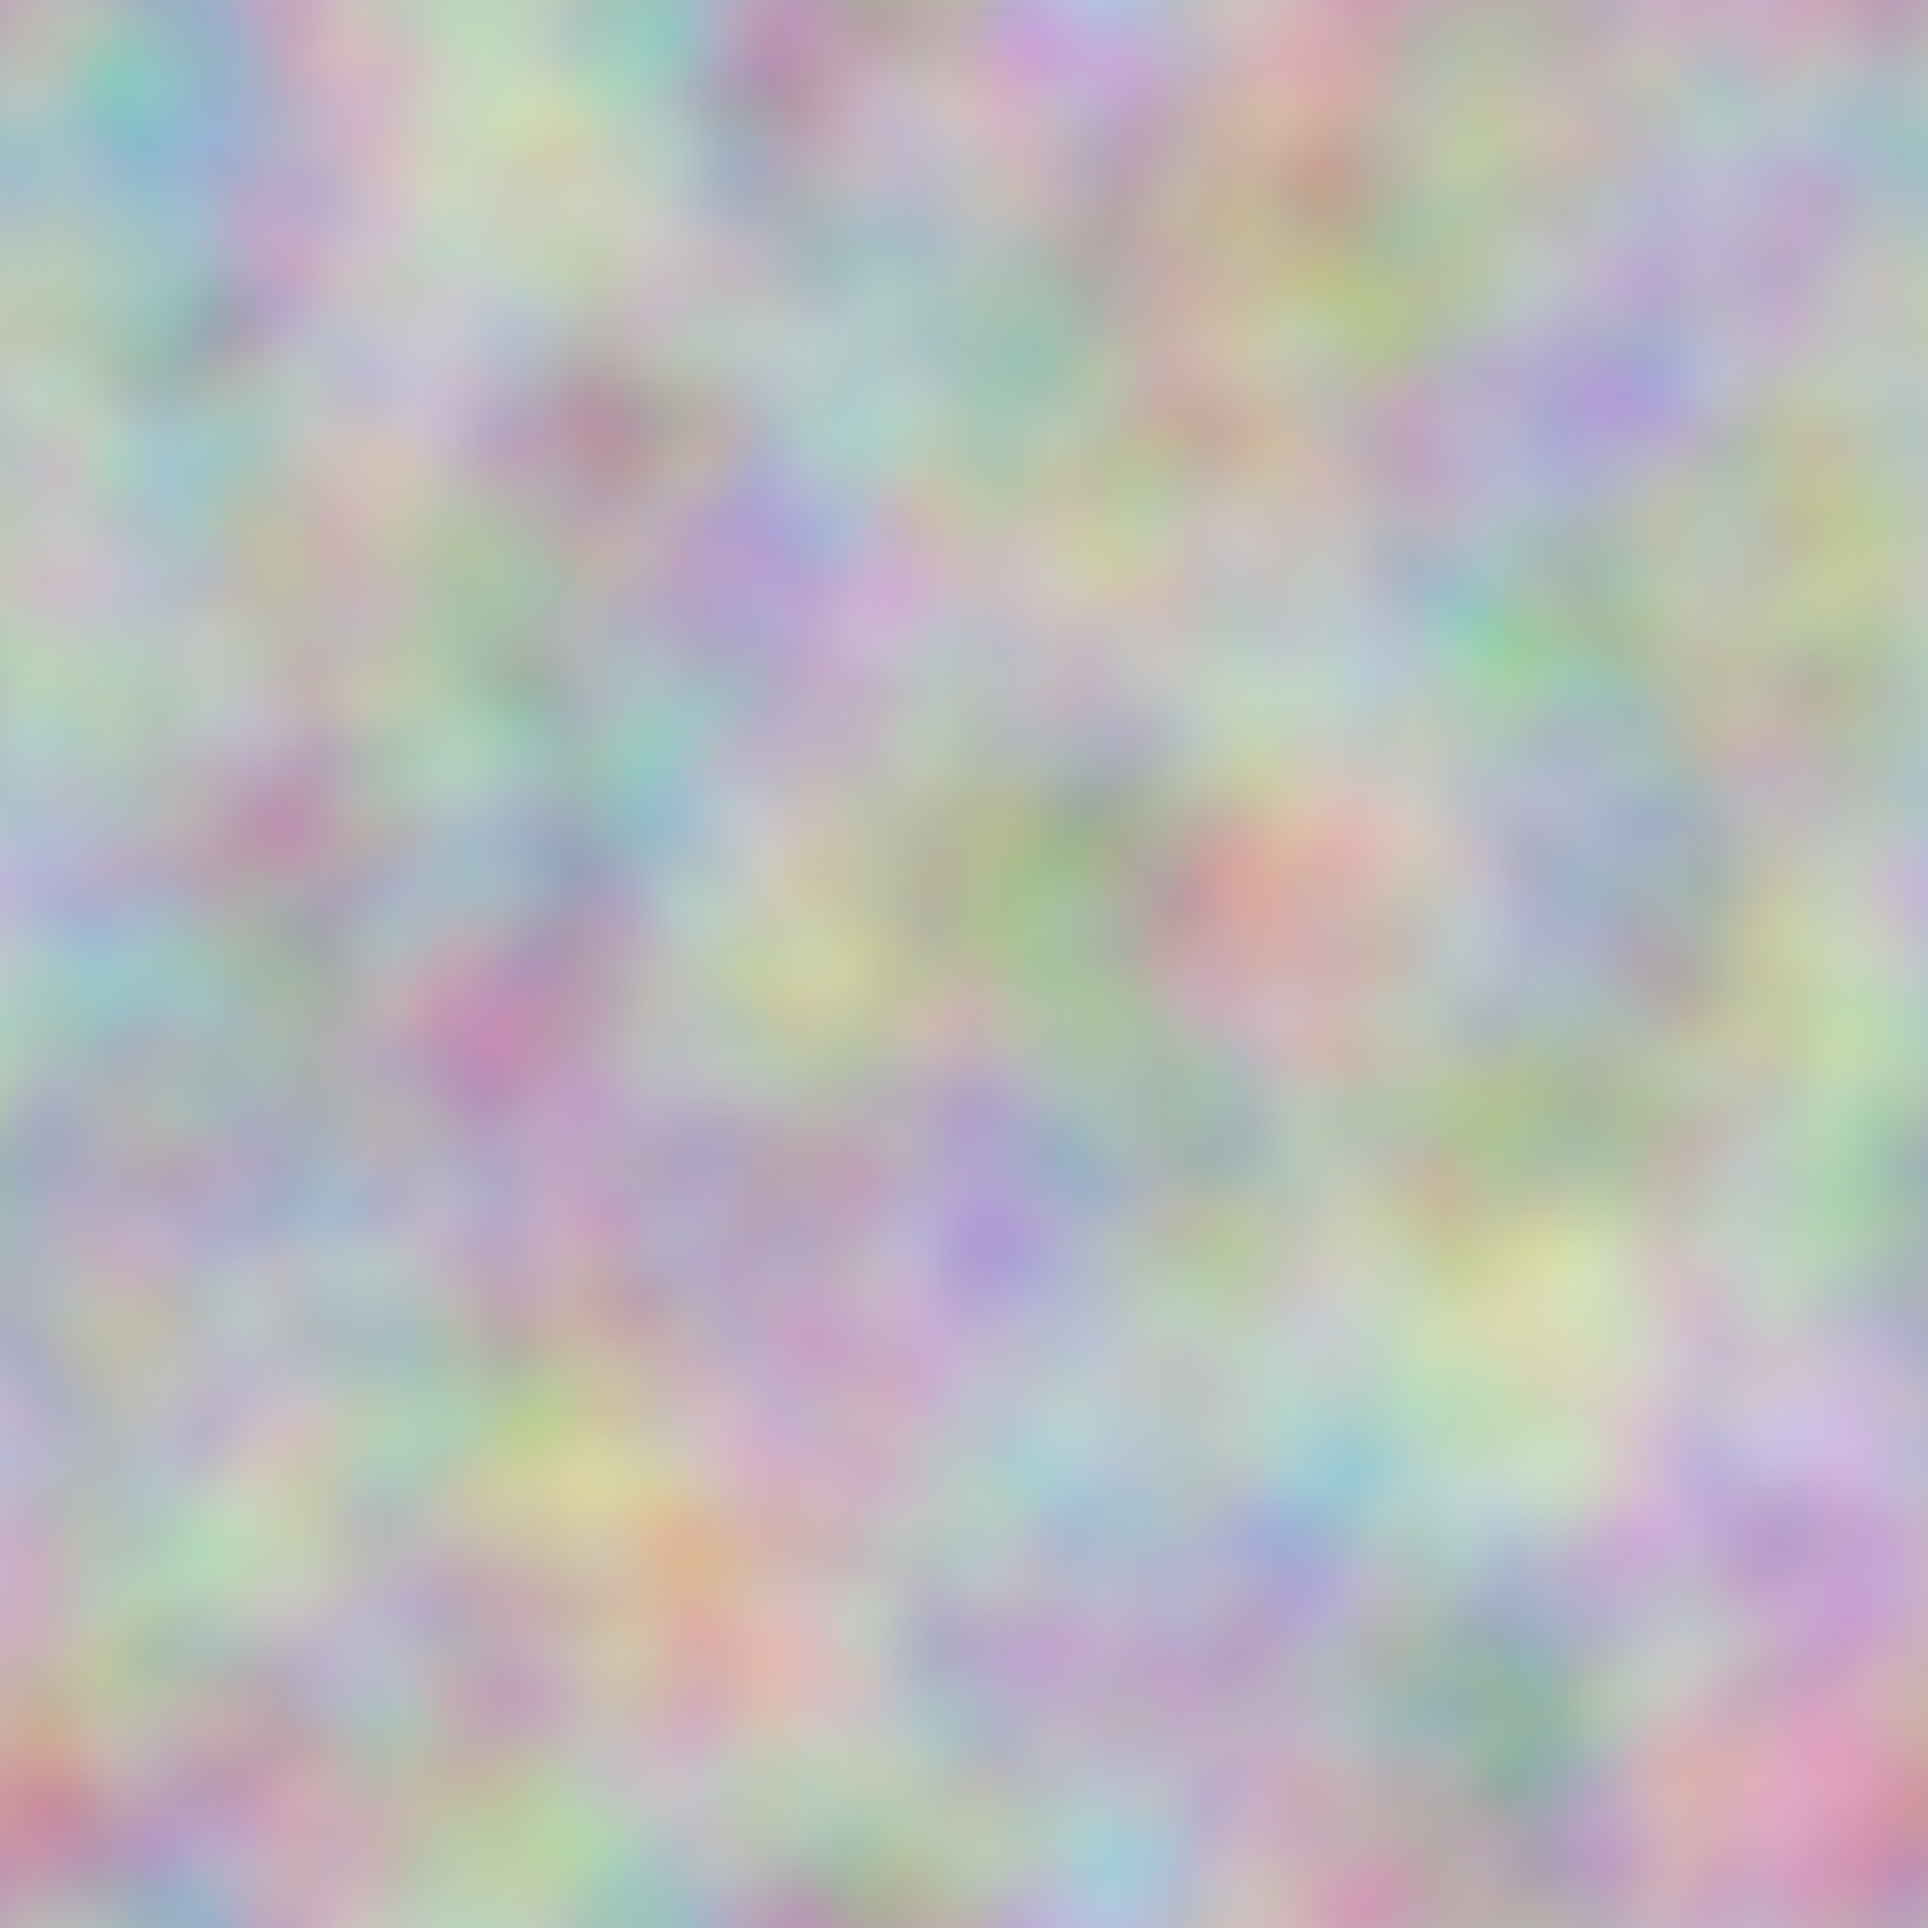
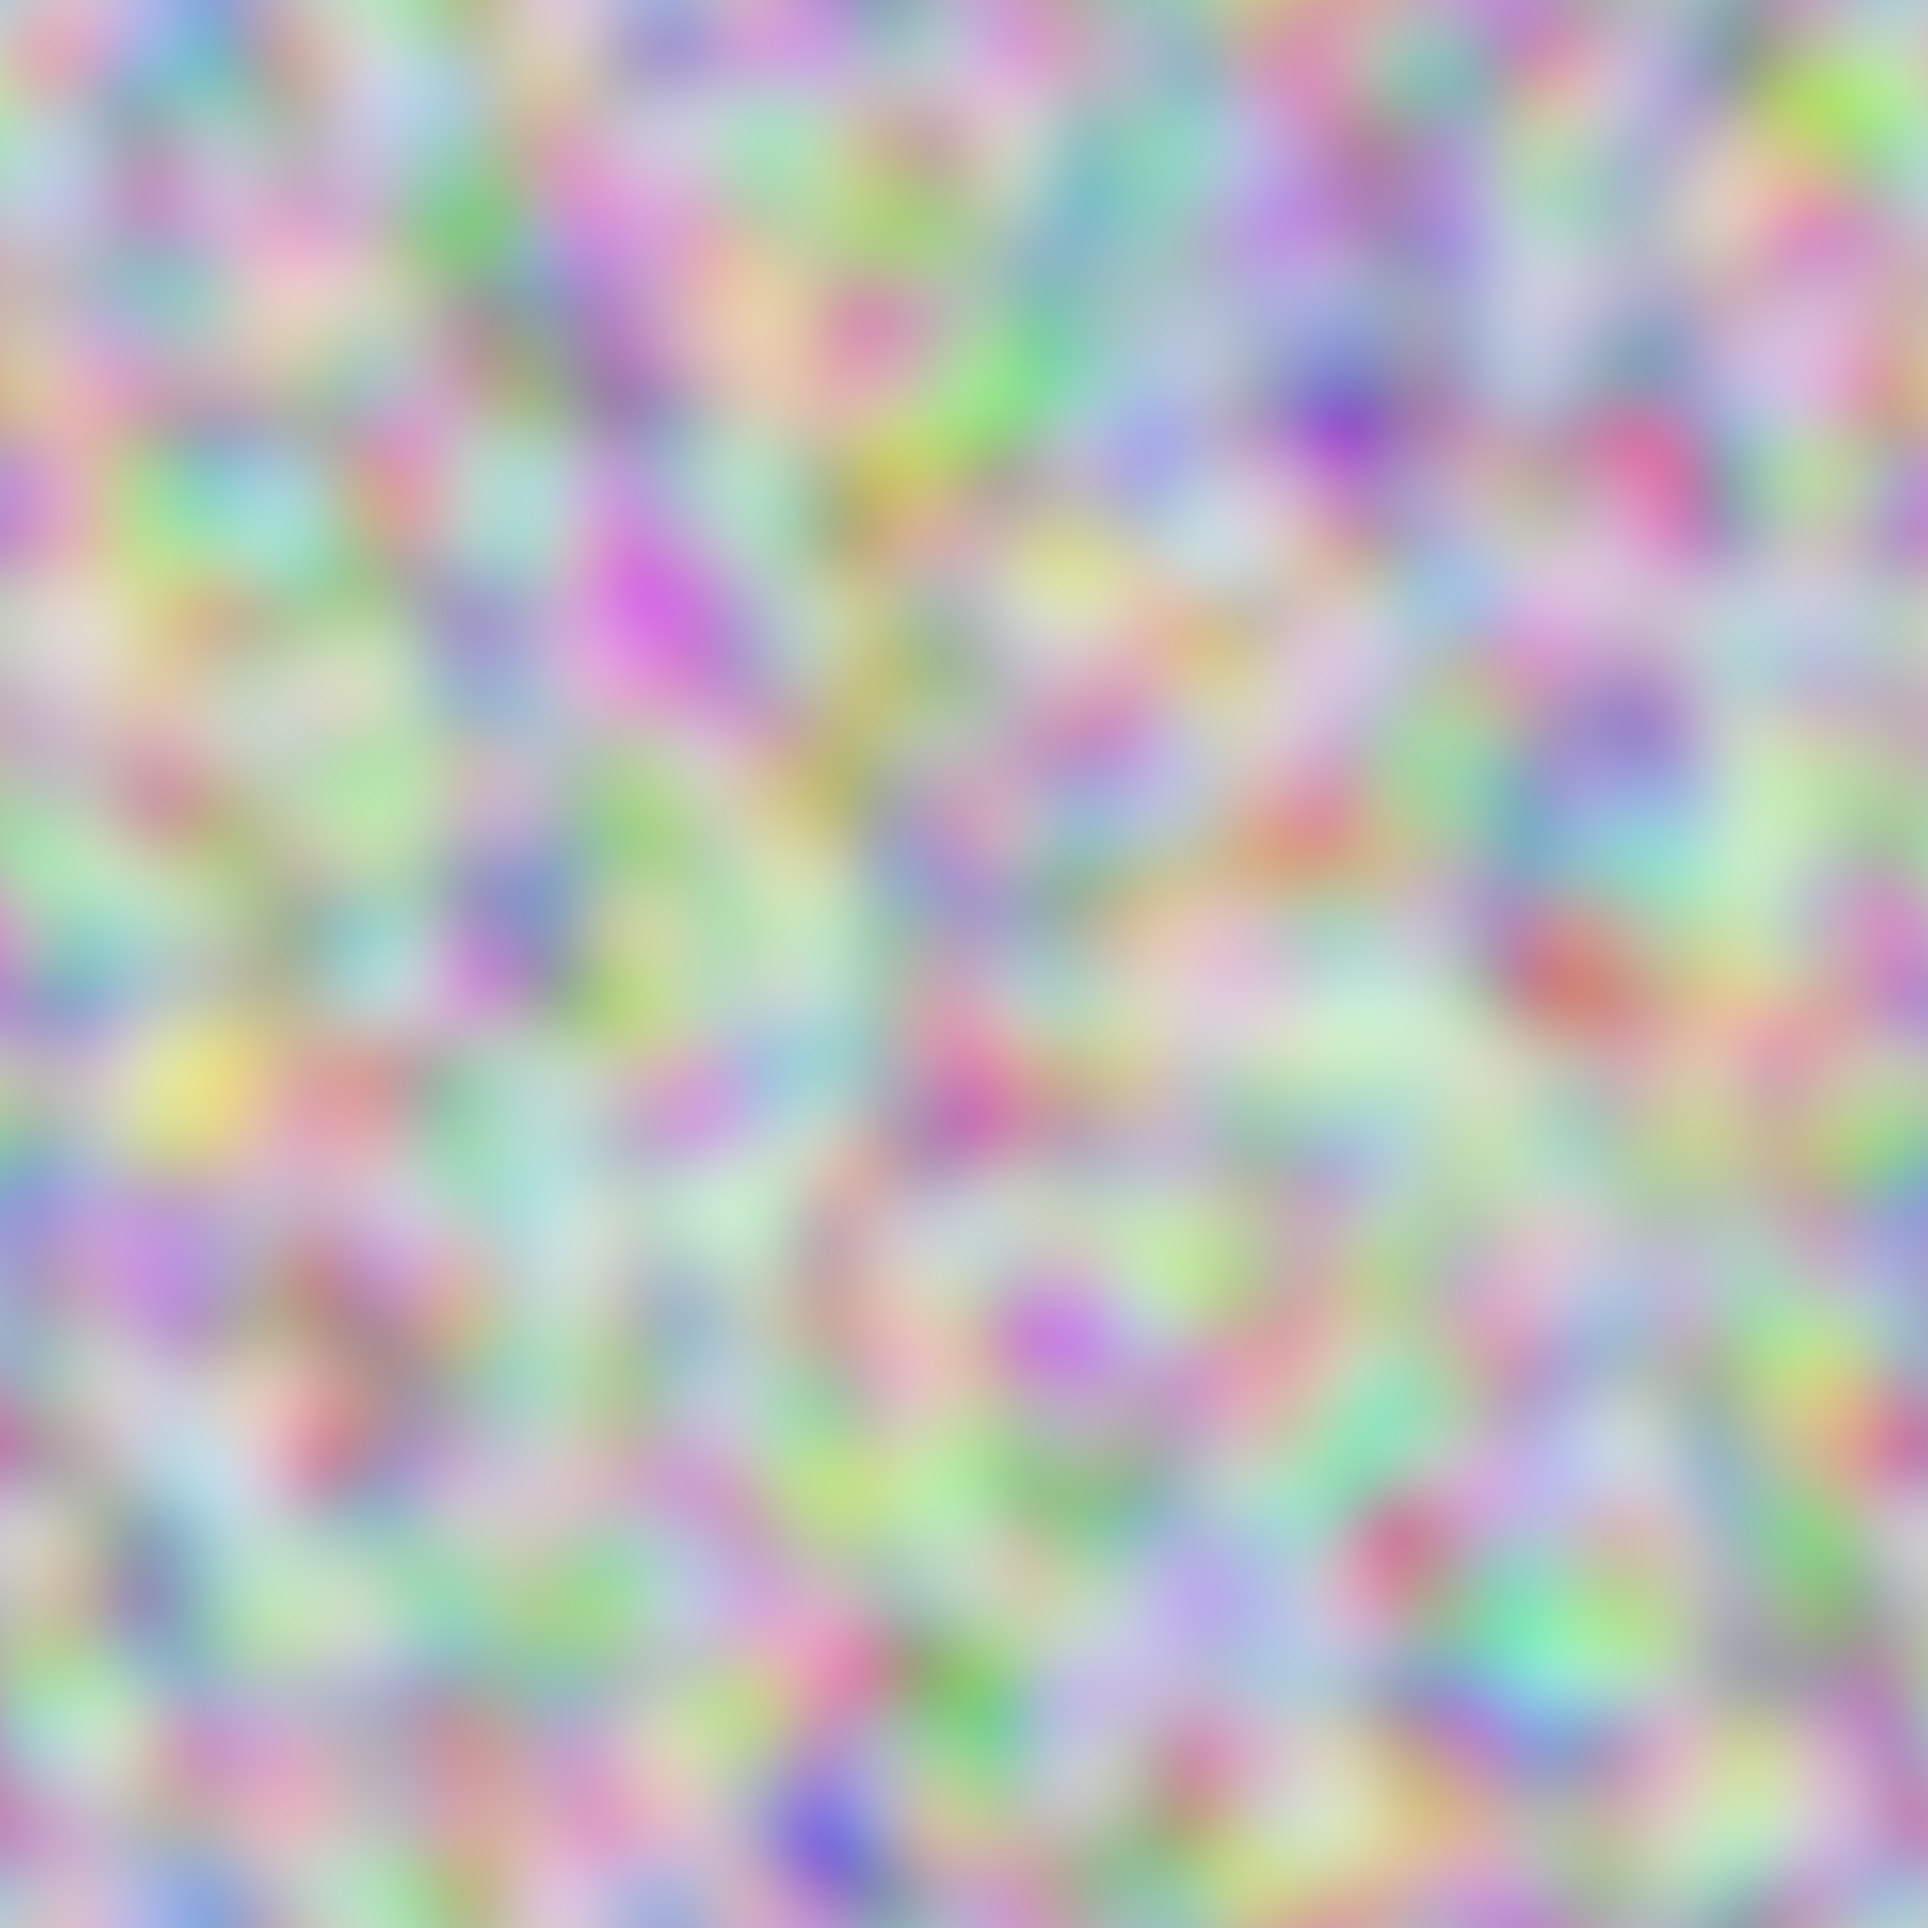
more wind controls and better noise texture

diff --git a/main.js b/main.js
@@ -583,7 +583,7 @@ let grass_draw_vertex_source =
         vec3 newpos = vec3(position.x * c - position.z * s, position.y, position.x * s + position.z * c);
 
         vec3 noise3d = texture(noise, (grassIndex / grassSize) + windDir).xyz;
-        vec2 grasswindoffsetxz = (noise3d.xy * 2.0 - 1.0) * position.y * position.y / 20.0;
+        vec2 grasswindoffsetxz = (noise3d.xy - 0.5) * position.y * position.y / 10.0;
         vec3 grasswindoffset = vec3(grasswindoffsetxz.x, -length(grasswindoffsetxz), grasswindoffsetxz.y);
         grassPos.xyz += grasswindoffset;
 
@@ -710,7 +710,10 @@ Input.init();
 
 let doneload = false;
 let wind_noise_texture = loadTexture(gl, "grass/noise.png", function() {});
-let windDir = 0;
+let windDir = 5*Math.PI/4;
+let windspeed = 0.1;
+let windPosx = 0.0;
+let windPosy = 0.0;
 let tex = loadTexture(gl, "metal_scale.png", function() { doneload = true; });
 let cube_map_texture = loadCubeMap(gl, 'right.jpg', 'left.jpg', 'top.jpg', 'bottom.jpg', 'front.jpg', 'back.jpg');
 gl.enable( gl.BLEND );
@@ -836,6 +839,9 @@ function render(now) {
 
     if (Input.getKeyState('1')) { windDir += 0.001; }
     if (Input.getKeyState('2')) { windDir -= 0.001; }
+    if (Input.getKeyState('3')) { windspeed += 0.01; }
+    if (Input.getKeyState('4')) { windspeed -= 0.01; }
+    if (Input.getKeyState('5')) { windspeed = 0.1; }
     
     //depth pass
     gl.bindTexture( gl.TEXTURE_2D, null );
@@ -876,7 +882,9 @@ function render(now) {
     gl.viewport(0, 0, canvas.width, canvas.height);
     grassshader.use();
     gl.uniform3f( gl.getUniformLocation( grassshader.getProgram(), "camera_position" ), viewpos.x, viewpos.y, viewpos.z );
-    gl.uniform2f(gl.getUniformLocation(grassshader.getProgram(), 'windDir'), Math.sin(windDir) * now / 10000, Math.cos(windDir) * now / 10000);
+    windPosx += windspeed * Math.cos(windDir) * time_delta;
+    windPosy += windspeed * Math.sin(windDir) * time_delta;
+    gl.uniform2f(gl.getUniformLocation(grassshader.getProgram(), 'windDir'), windPosx, windPosy);
 
     let grasstextures = grass_comp_shader.getRenderTextures();
     gl.activeTexture(gl.TEXTURE0);
